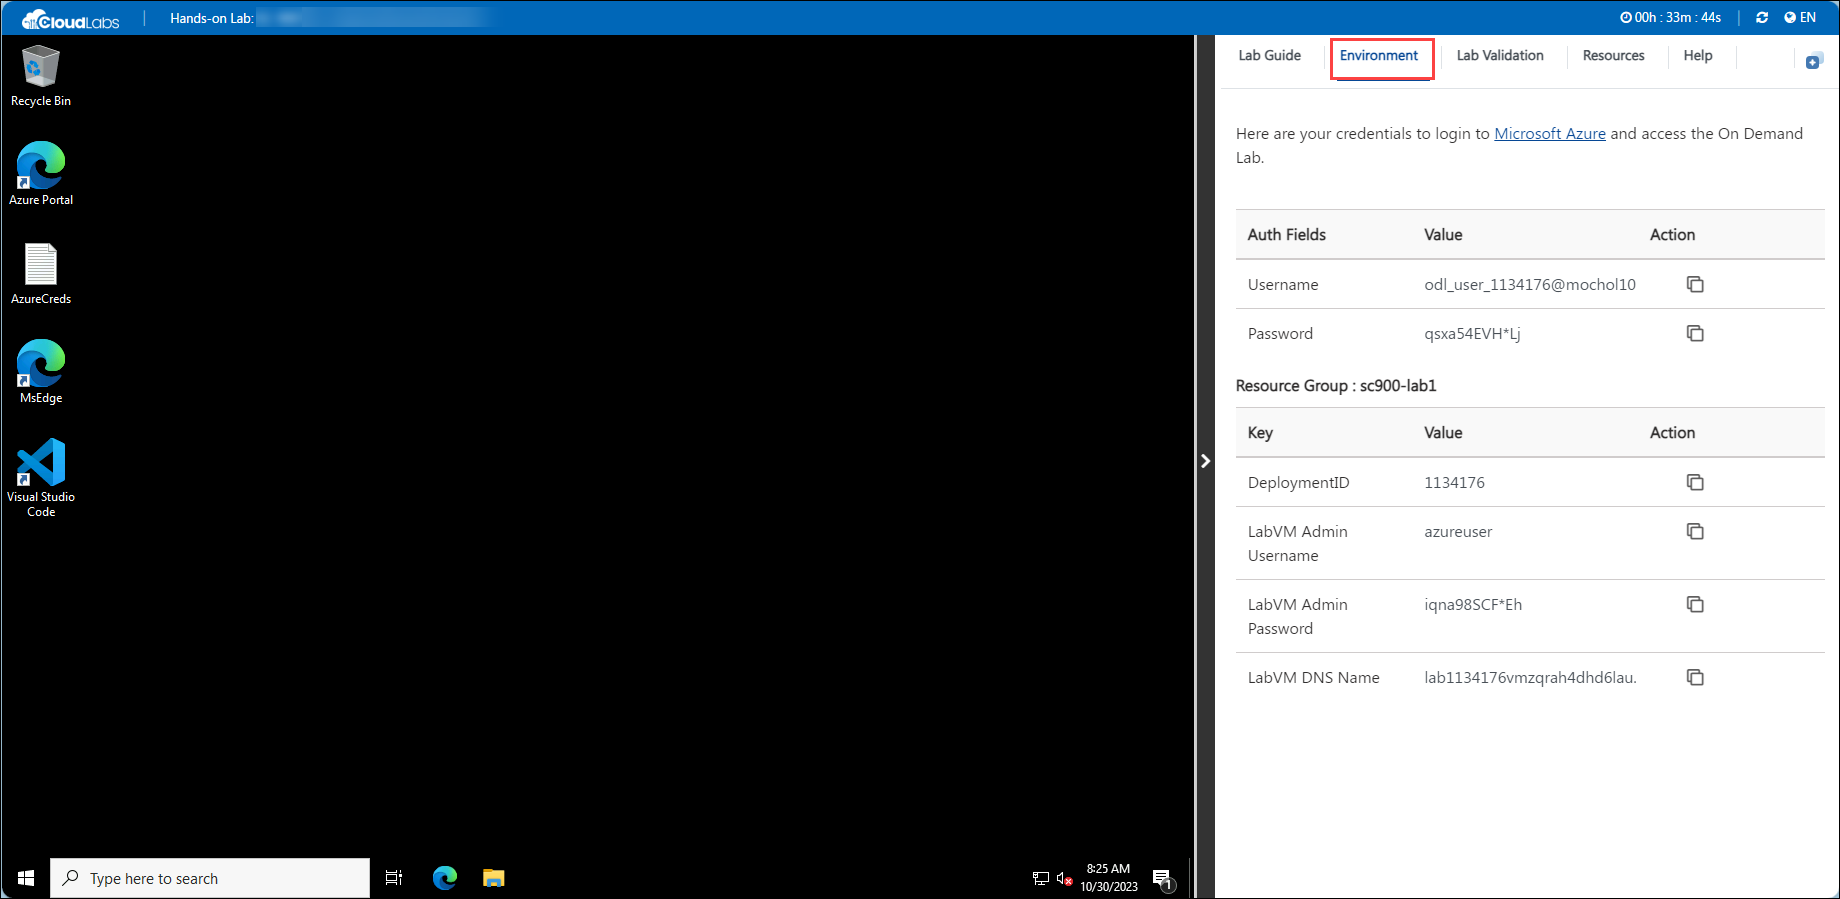
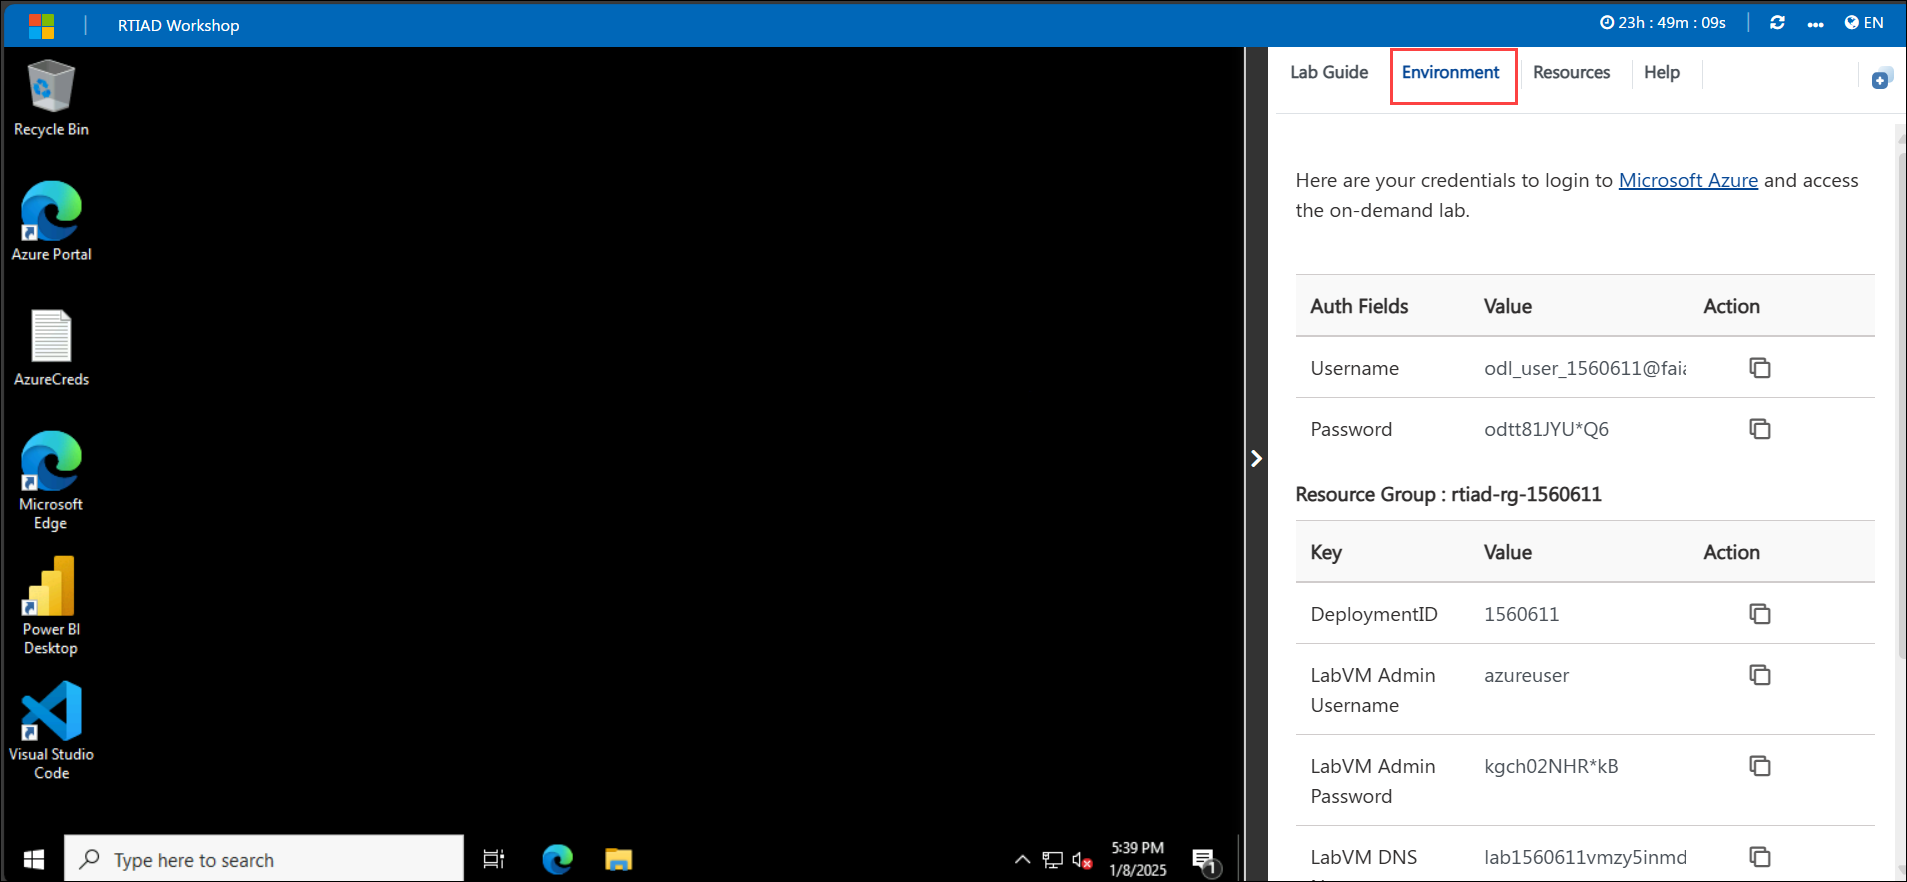
commits

diff --git a/instructions/labs/getting-started-page.md b/instructions/labs/getting-started-page.md
@@ -28,7 +28,7 @@ Welcome to the "**Microsoft Fabric Mirroring**" lab. In this lab, you'll learn h
  
 Once you're ready to dive in, your virtual machine and lab guide will be right at your fingertips within your web browser.
  
-![Access Your VM and Lab Guide](../media/labguide-1.png)
+![Access Your VM and Lab Guide](../media/env-2.png)
 
 ## Virtual Machine & Lab Guide
  
@@ -50,7 +50,7 @@ For convenience, you can open the lab guide in a separate window by selecting th
  
 Feel free to start, stop, or restart your virtual machine as needed from the **Resources** tab. Your experience is in your hands!
  
-![Manage Your Virtual Machine](../media/res.png)
+![Manage Your Virtual Machine](../media/vm-op.png)
 
 ## Lab Guide Zoom In/Zoom Out
 
